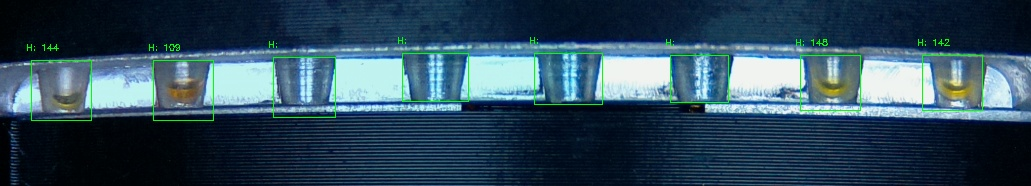
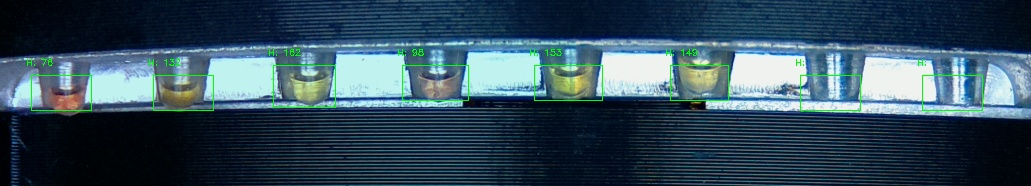
bổ sung khá nhiều. Quan trọng nhất là logic dừng phản ứng đồng thời kết luận dương tính, đạt của các tube. Đồng thời, bổ sung hàm lọc nhiễu ảnh, chỉ riêng lamptest4 mới có

diff --git a/testtubenew-v4.py b/testtubenew-v4.py
@@ -39,10 +39,10 @@ program_status = None
 elapsed_time = 0
 last_five_hues_n = []  # Store the last 5 hues for Tube N
 
-COMPARATOR = 1.4
-HUE_CONCLUSION_COMPARATOR = 100
+C_COMPARATOR = 1.4
+HUE_CONCLUSION_COMPARATOR = 110
 ORANGE_OFFSET = 20
-VALID_PIXEL_THRESHOLD = 25  # Minimum number of valid pixels required
+VALID_PIXEL_THRESHOLD = 30  # Minimum number of valid pixels required
 CONDITION_CHECK_THRESHOLD = 3
 # Directory to save images
 image_dir = '/home/lamp/testtubenew/Test_Image'
@@ -91,14 +91,14 @@ capture_interval = 1
 
 #Regions for each test tube in the image
 regions = {
-    "tube_1": (31, 60, 91, 120),
-    "tube_2": (153, 60, 213, 120),
-    "tube_3": (273, 57, 335, 117),
-    "tube_4": (402, 53, 468, 101),
-    "tube_5": (534, 53, 602, 104),
-    "tube_6": (670, 55, 728, 102),
-    "tube_7": (800, 55, 860, 110),
-    "tube_8": (922, 55, 982, 110)
+    "tube_1": (31, 75, 91, 110),
+    "tube_2": (153, 75, 213, 110),
+    "tube_3": (273, 65, 335, 107),
+    "tube_4": (402, 65, 468, 100),
+    "tube_5": (534, 65, 602, 100),
+    "tube_6": (670, 65, 728, 100),
+    "tube_7": (800, 75, 860, 110),
+    "tube_8": (922, 75, 982, 110)
 }
 CROP_Y1 = 176
 CROP_Y2 = 362
@@ -376,10 +376,30 @@ def program_1_at_t1(hue_i, hue_p, hue_n, hue_t_list):
         total_result = "Phản ứng đã dừng, tất cả tube T đều dương tính"
         current_status = "Phản ứng kết thúc"
         print("Dừng phản ứng: Tất cả tube T đều dương tính 3 lần liên tiếp")
+        if c1 >= C_COMPARATOR and hue_i > HUE_CONCLUSION_COMPARATOR:
+            table_data[1]["Result"] = "Đạt"
+            # good_conclusion_flag_c1 = True
+        else:
+            table_data[1]["Result"] = "Không đạt"
+            # good_conclusion_flag_c1 = False
+
+        if c2 >= C_COMPARATOR and hue_p > HUE_CONCLUSION_COMPARATOR:
+            table_data[2]["Result"] = "Đạt"
+            # good_conclusion_flag_c2 = True
+        else:
+            table_data[2]["Result"] = "Không đạt"
+            # good_conclusion_flag_c2 = False
+        if hue_n < HUE_CONCLUSION_COMPARATOR:
+            table_data[0]["Result"] = "Đạt"
+        else:
+            table_data[0]["Result"] = "Không đạt"
+
+
         return {
             "total_result": 'Tất cả mẫu đã dương tính, dừng phản ứng',
             "table_data": table_data
         }
+    print(f"Table Data: {table_data}")
 
     # Return the table data and results
     total_result = "Tiếp tục phản ứng" 
@@ -453,10 +473,15 @@ def program_2_at_t1(hue_n, hue_t_list):
         total_status = "Phản ứng đã dừng, tất cả tube T đều dương tính"
         current_status = "Phản ứng kết thúc"
         print("Dừng phản ứng: Tất cả tube T đều dương tính 3 lần liên tiếp")
+        if hue_n < HUE_CONCLUSION_COMPARATOR:
+            table_data[0]["Result"] = "Đạt"
+        else:
+            table_data[0]["Result"] = "Không đạt"
         return {
             "total_result": "Chương trình 2 kết thúc, tất cả mẫu dương tính",
             "table_data": table_data
         }
+    print(f"Table Data: {table_data}")
 
     return {
         "total_result": "Chương trình 2 đang chạy",
@@ -474,12 +499,20 @@ def program_1_at_end(hue_i, hue_p, hue_n, hue_t_list):
     table_data = []
 
     # Add Tube 1 (N) hue value immediately
-    table_data.append({
-        "Tube": "Tube 1 (N)",
-        "Hue Value": hue_n,
-        "C Value": "",
-        "Result": ""
-    })
+    if hue_n < HUE_CONCLUSION_COMPARATOR:
+        table_data.append({
+            "Tube": "Tube 1 (N)",
+            "Hue Value": hue_n,
+            "C Value": "",
+            "Result": "Đạt"
+        })
+    else: 
+        table_data.append({
+            "Tube": "Tube 1 (N)",
+            "Hue Value": hue_n,
+            "C Value": "",
+            "Result": "Không đạt"
+        })
 
     half_process_time = selected_process_time / 2  # Calculate half of the total process time
 
@@ -536,12 +569,20 @@ def program_2_at_end(hue_n, hue_t_list):
     table_data = []
 
     # Add Tube 1 (N) hue value
-    table_data.append({
-        "Tube": "Tube 1 (N)",
-        "Hue Value": hue_n,
-        "C Value": "",
-        "Result": ""
-    })
+    if hue_n < HUE_CONCLUSION_COMPARATOR:
+        table_data.append({
+            "Tube": "Tube 1 (N)",
+            "Hue Value": hue_n,
+            "C Value": "",
+            "Result": "Đạt"
+        })
+    else: 
+        table_data.append({
+            "Tube": "Tube 1 (N)",
+            "Hue Value": hue_n,
+            "C Value": "",
+            "Result": "Không đạt"
+        })
 
     # Process tubes T1 to T7
     for i, hue_t in enumerate(hue_t_list, start=1):
@@ -825,8 +866,10 @@ def plot_graph(columns=2, window_size=5):
             row = (i - 1) // columns + 1
             col = (i - 1) % columns + 1
             x_values = pd.to_datetime(df['Timestamp'])
-            y_values = df[f'Tube_{i}_Hue'].fillna(0)  # Fill NaN with 0 or handle NaN values
 
+            # Convert y_values to numeric, coercing errors and handling NaN values
+            y_values = pd.to_numeric(df[f'Tube_{i}_Hue'], errors='coerce').fillna(0)  # Convert to numeric and handle NaN
+            
             # Apply a moving average to smooth the curve
             y_smooth = y_values.rolling(window=window_size, min_periods=1).mean()
 
@@ -869,7 +912,7 @@ def plot_graph(columns=2, window_size=5):
     )
 
     return {"data": fig['data'], "layout": fig['layout']}
-    
+ 
 def handle_temperature(action, value=None):
     global serial_lock
 

diff --git a/detecttest.py b/detecttest.py
@@ -5,14 +5,14 @@ import subprocess
 
 # Define the regions for the test tubes
 regions = {
-    "tube_1": (31, 60, 91, 120),
-    "tube_2": (153, 60, 213, 120),
-    "tube_3": (273, 57, 335, 117),
-    "tube_4": (402, 53, 468, 101),
-    "tube_5": (534, 53, 602, 104),
-    "tube_6": (670, 55, 728, 102),
-    "tube_7": (800, 55, 860, 110),
-    "tube_8": (922, 55, 982, 110)
+    "tube_1": (31, 75, 91, 110),
+    "tube_2": (153, 75, 213, 110),
+    "tube_3": (273, 65, 335, 107),
+    "tube_4": (402, 65, 468, 100),
+    "tube_5": (534, 65, 602, 100),
+    "tube_6": (670, 65, 728, 100),
+    "tube_7": (800, 75, 860, 110),
+    "tube_8": (922, 75, 982, 110)
 }
 CROP_Y1 = 176
 CROP_Y2 = 362
